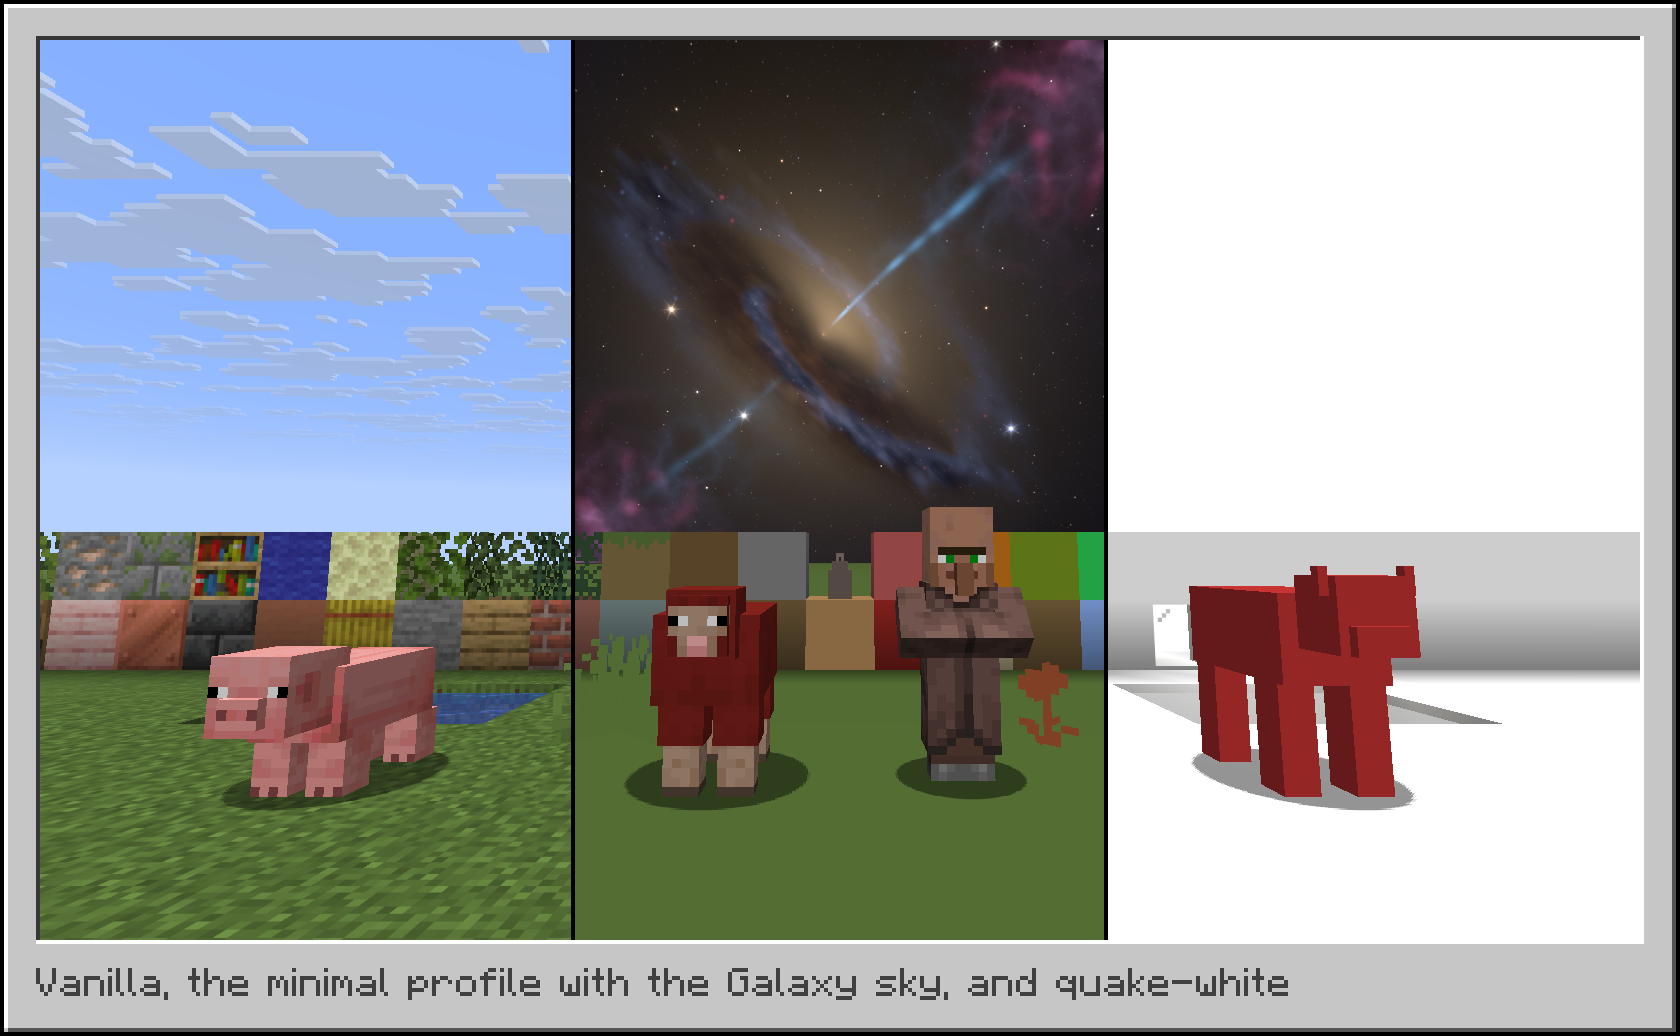
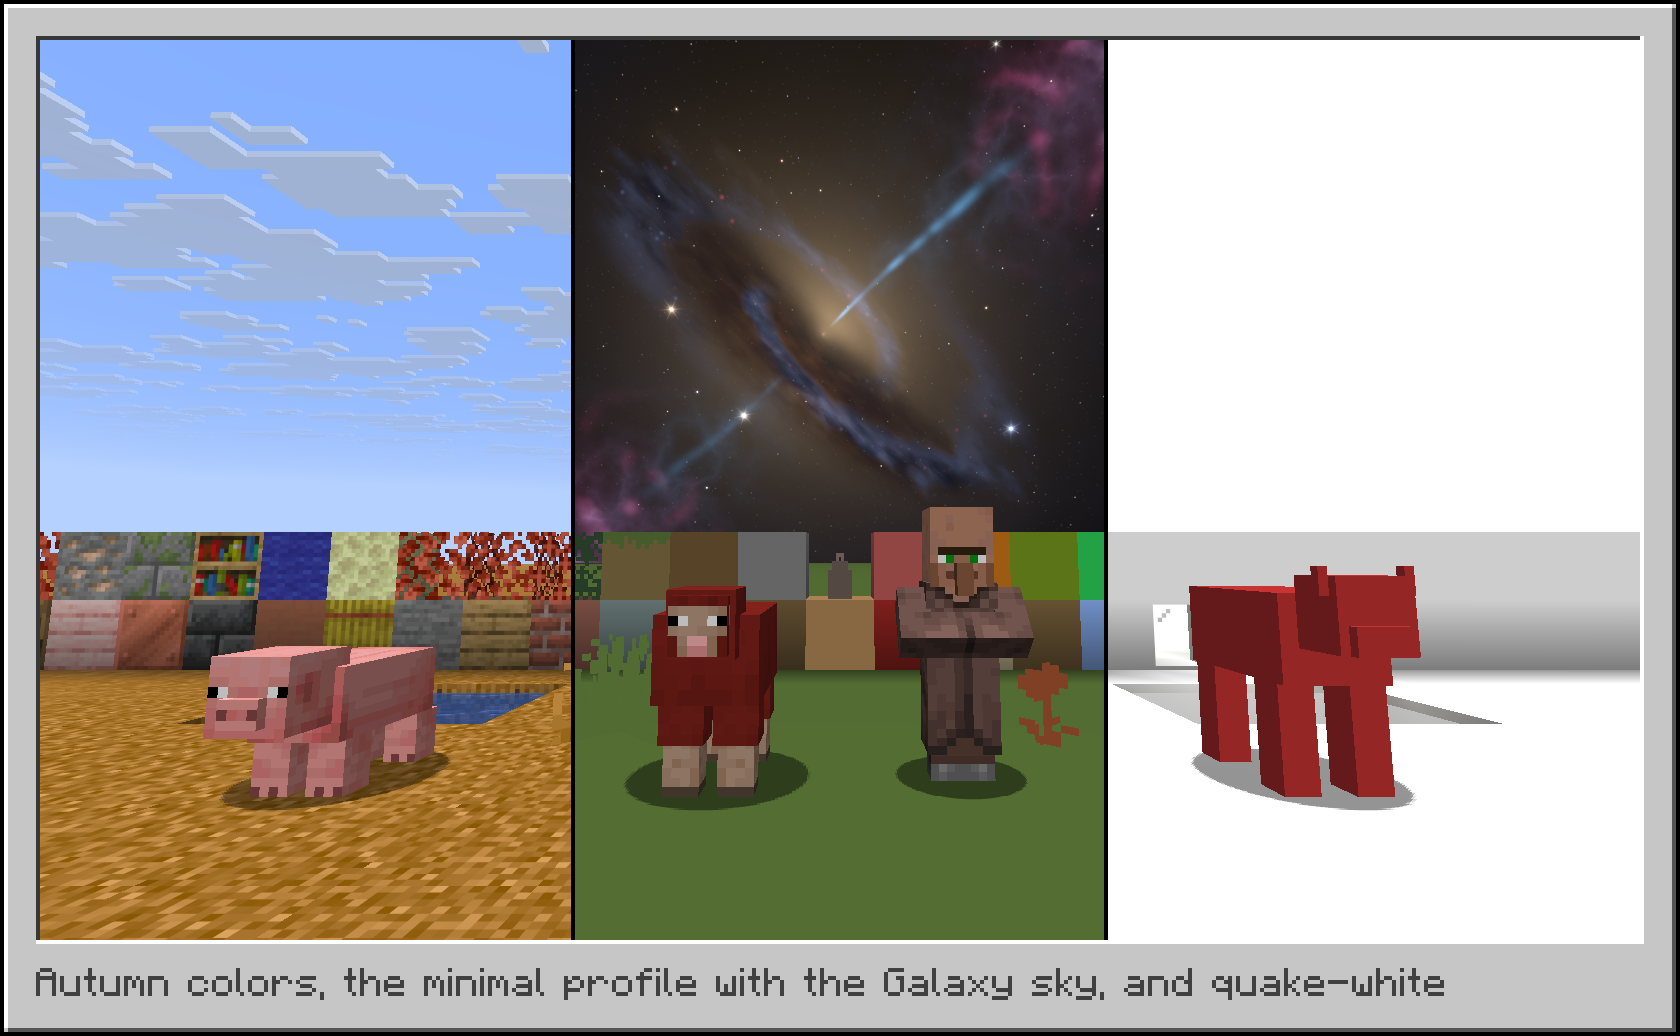
docs: Show autumn colors in place of vanilla in the split image
The left strip recolors grass, plants and leaves and keeps their texture, to show
recolor next to the flat strips. The harness gets a profilejson command that loads
a whole profile from one line.

Changed region(s): [[0.0, 0.6486, 0.8667, 0.9884], [0.2167, 0.4942, 0.3405, 0.5869], [0.0, 0.5251, 0.031, 0.5869]]

diff --git a/core/src/main/java/dev/albedo/core/dev/Harness.java b/core/src/main/java/dev/albedo/core/dev/Harness.java
@@ -8,6 +8,7 @@ import dev.albedo.core.config.Appearance;
 import dev.albedo.core.config.CategorySettings;
 import dev.albedo.core.config.Chroma;
 import dev.albedo.core.config.Config;
+import dev.albedo.core.config.ConfigCodec;
 import dev.albedo.core.config.Profile;
 import dev.albedo.core.config.SkyDesign;
 import dev.albedo.core.config.SkyLayer;
@@ -282,6 +283,7 @@ public final class Harness {
         else if (verb.equals("wait")) waitTicks = Integer.parseInt(arg);
         else if (verb.equals("mod")) sc.apply(config.withEnabled(arg.equals("on")));
         else if (verb.equals("profile")) sc.apply(config.withActiveProfile(arg).withEnabled(true));
+        else if (verb.equals("profilejson")) sc.apply(withProfileJson(config, arg));
         else if (toggle != null) sc.apply(config.withProfile(config.activeProfile().with(toggle, arg.equals("on"))));
         else if (verb.equals("effects")) sc.apply(config.withProfile(withEffects(config.activeProfile(), arg.split("\\s+"))));
         else if (verb.equals("look")) sc.apply(config.withProfile(withLook(config.activeProfile(), arg.split("\\s+"))));
@@ -393,6 +395,12 @@ public final class Harness {
         boolean open = host.settingsOpen();
         if (open == state.equals("open")) log("PASS the settings screen is " + state);
         else log("! the settings screen is " + (open ? "open" : "closed") + ", expected " + state);
+    }
+
+    /** Adds the profile of a profile file, written on one line, and makes it the active profile. */
+    static Config withProfileJson(Config config, String json) {
+        Profile p = ConfigCodec.decodeProfileFile(json);
+        return config.withProfile(p).withActiveProfile(p.name()).withEnabled(true);
     }
 
     /** Sets the look of a category to one color from {@code <category> solid #RRGGBB}. */

diff --git a/core/src/test/java/dev/albedo/core/dev/HarnessTest.java b/core/src/test/java/dev/albedo/core/dev/HarnessTest.java
@@ -124,6 +124,15 @@ class HarnessTest {
     }
 
     @Test
+    void theProfileJsonCommandAddsAndSelectsAProfile() {
+        Config c = Harness.withProfileJson(Config.defaults(), "{\"albedoProfile\": 1, \"name\": \"autumn\", \"profile\": "
+                + "{\"blocks\": {\"groups\": [{\"name\": \"Leaves\", \"match\": \"*leaves\", \"mode\": \"recolor\", \"color\": \"#C8641E\"}]}}}");
+        assertEquals("autumn", c.activeProfile().name());
+        assertEquals(Appearance.Mode.RECOLOR, c.activeProfile().get(Category.BLOCKS).rules().get(0).lookIn(Appearance.ORIGINAL).mode());
+        assertThrows(IllegalArgumentException.class, () -> Harness.withProfileJson(Config.defaults(), "{}"));
+    }
+
+    @Test
     void theSkyCommandSetsAPresetOrTheVanillaSky() {
         Profile p = Harness.withSky(Config.defaults().activeProfile(), "Nebula");
         assertEquals(Appearance.Mode.LAYERS, p.get(Category.SKY).appearance().mode());

diff --git a/modrinth/DESCRIPTION.md b/modrinth/DESCRIPTION.md
@@ -1,6 +1,6 @@
 # Albedo
 
-![Vanilla, the minimal profile with the Galaxy sky, and quake-white](https://raw.githubusercontent.com/wvvern/albedo/master/modrinth/header.png)
+![Autumn colors, the minimal profile with the Galaxy sky, and quake-white](https://raw.githubusercontent.com/wvvern/albedo/master/modrinth/header.png)
 
 Albedo is a client-side mod that lets you paint blocks, fluids, the sky, mobs and the rest of the world in any color. Give each part one flat color, or recolor its textures and keep their detail.
 

diff --git a/README.md b/README.md
@@ -4,7 +4,7 @@ Albedo is a client-side Minecraft mod that lets you paint blocks, fluids, the sk
 
 Textures are changed as they load, so modded blocks and resource packs work too.
 
-![Vanilla, the minimal profile with the Galaxy sky, and quake-white](modrinth/header.png)
+![Autumn colors, the minimal profile with the Galaxy sky, and quake-white](modrinth/header.png)
 
 ## Features
 
